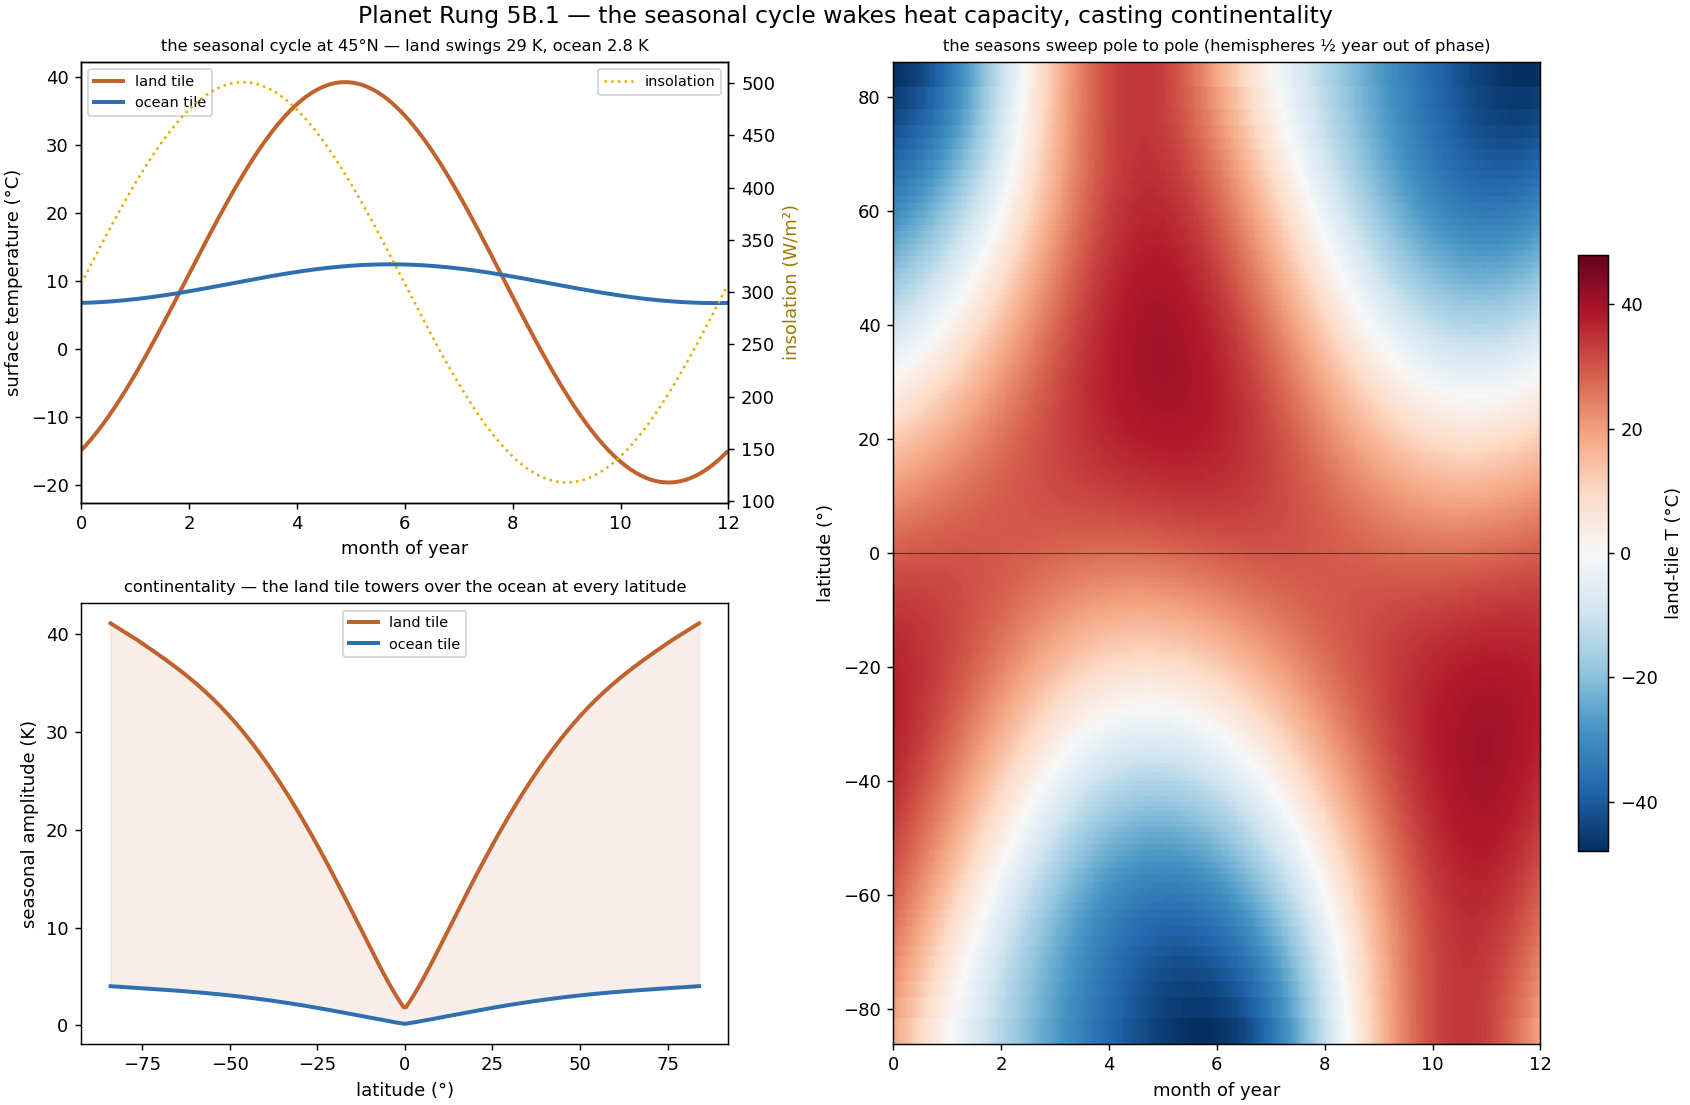
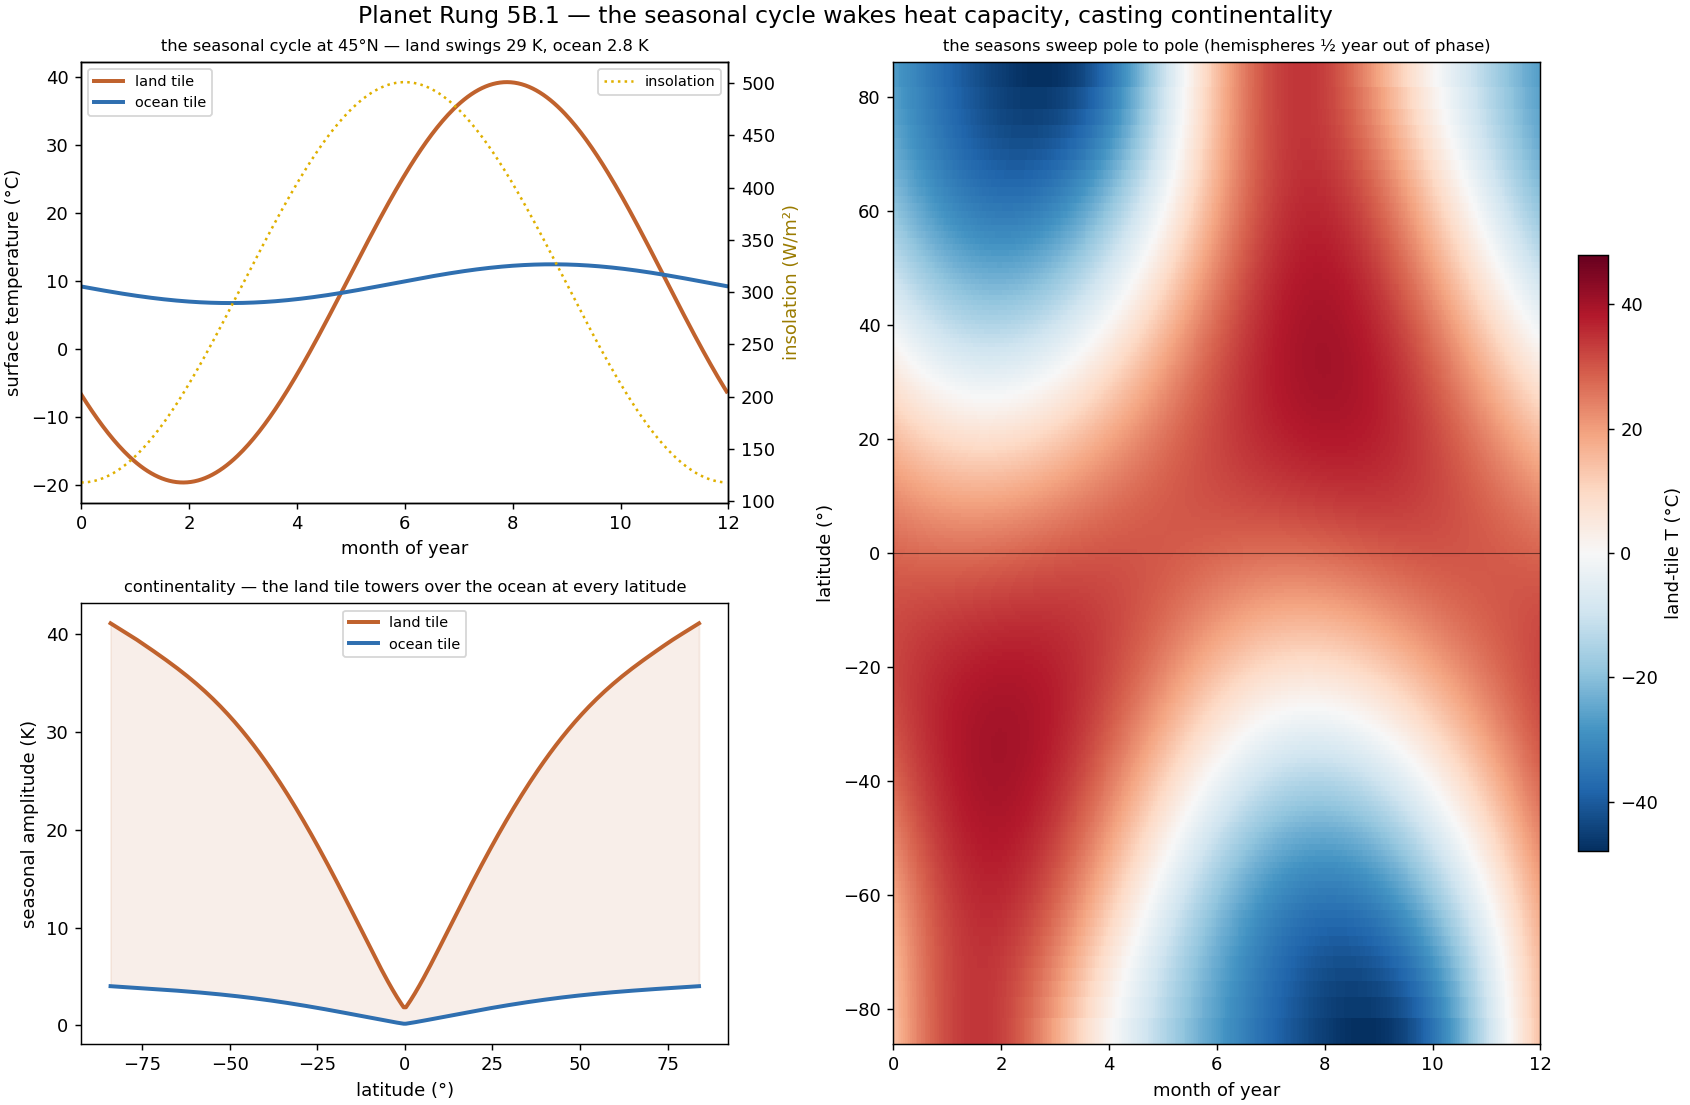
fix(rung5b1): phase the seasonal year to a Jan-start calendar so the figure month axis reads intuitively
The seasonal forcing time origin was the vernal equinox, so insolation peaked
at "month 3" and the land tile lagged to "month 5" — misleading on a figure
whose x-axis reads as a calendar. Shift _sin_delta from sin(2*pi*t/yr) to
-cos(2*pi*t/yr) so day 0 sits at the NH winter solstice (~ January): insolation
now peaks near mid-year, the land tile lags into late summer, and the
Hovmoller reads as a familiar calendar. Physics is unchanged (a pure phase
shift of the forcing) — land amp 29.5 K, lag 57.6 d, continentality contrast
intact. Advisor-caught.

diff --git a/planet/seasonal.py b/planet/seasonal.py
@@ -273,8 +273,11 @@ class SeasonalEBM:
         self.dt = SECONDS_PER_YEAR / self.n_steps
         self.day_seconds = np.arange(self.n_steps) * self.dt
         self.days = self.day_seconds / 86400.0
-        self._sin_delta = math.sin(math.radians(self.obliquity_deg)) * np.sin(
-            2.0 * math.pi * self.day_seconds / SECONDS_PER_YEAR)
+        # Phase the year so day 0 ≈ 1 January (NH winter solstice): δ(0) = −ε, rising to +ε at mid-year,
+        # so the figure's "month of year" axis reads as a familiar Jan-start calendar (NH summer near
+        # month 6–7). A uniform time-shift — it changes no amplitude, lag, or anchor, only the labels.
+        self._sin_delta = math.sin(math.radians(self.obliquity_deg)) * (
+            -np.cos(2.0 * math.pi * self.day_seconds / SECONDS_PER_YEAR))
 
     # -- forcing ----------------------------------------------------------- #
     def coalbedo(self, albedo: Optional[np.ndarray | float] = None) -> np.ndarray:
